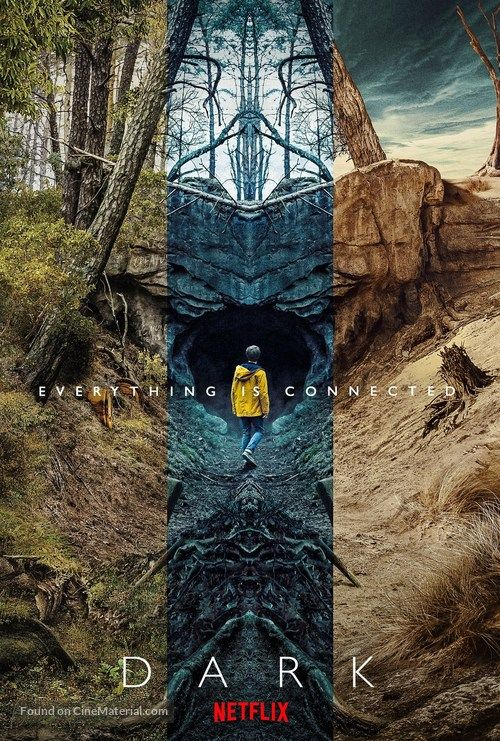
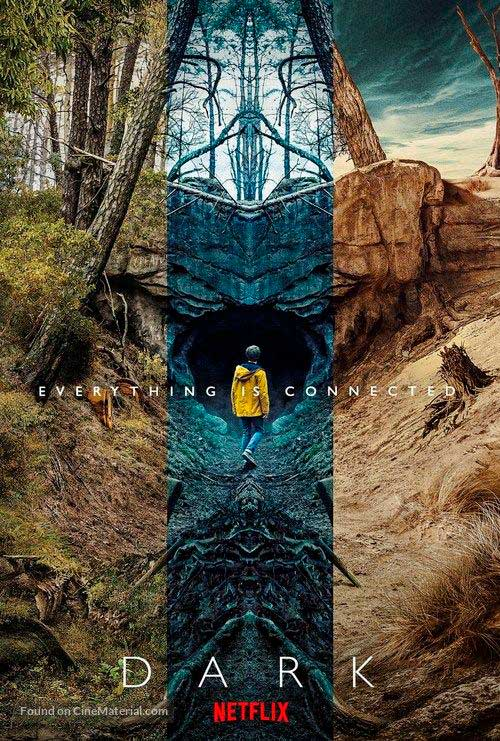
imagens otimizadas

diff --git a/filmes.html b/filmes.html
@@ -16,28 +16,84 @@
         <!-- CSS principal -->
         <link rel="stylesheet" href="css/style.css">
         <link rel="stylesheet" href="css/responsive.css">
+        <!-- Custom CSS -->
+        <style>
+              .single_review_item {
+            display: flex;
+            flex-direction: column;
+            height: 100%; 
+            border: 1px solid #f0f0f0;
+            border-radius: 5px;
+            overflow: hidden;
+        }
+
+        .img-fluid {
+            height: 400px; 
+            object-fit: cover; 
+            
+
+  }
+    
+        .review_content {
+            flex-grow: 1;
+            display: flex;
+            flex-direction: column;
+            
+        }
+    
+        .review_content h4 {
+            margin-top: 0;
+        }
+    
+        .review_content p {
+            flex-grow: 1;
+            margin-bottom: 15px;
+        }
+    
+        .review_content img {
+            width: 100%;
+            height: auto; 
+            object-fit: cover;
+            border-radius: 5px;
+            max-height: 500px;
+}
+    
+        .btn.theme_btn.button_hover {
+            align-self: center; 
+            margin-top: auto; 
+            padding: 10px 20px;
+            text-transform: uppercase;
+            font-size: 14px;
+        }
+    
+
+        .latest_reviews_area .single_review_item .review_content img {
+            width: 100%;
+            height: auto; /* ou uma altura fixa como 400px */
+            object-fit: cover;
+            border-radius: 5px;
+            max-height: 500px; /* ajuste conforme necessário */
+}
+        </style>
     </head>
     <body>
         <!--================Área de Cabeçalho =================-->
         <header class="header_area">
             <div class="container">
                 <nav class="navbar navbar-expand-lg navbar-light">
-                    <!-- Marca e botão de navegação -->
-                    <a class="navbar-brand logo_h" href="index.html"><img src="image/Logo.png" alt=""></a>
+                    <img src="./image/optimizedimages/logo.png" class="logo">
+                    <p class="cine">CineReview</p>
                     <button class="navbar-toggler" type="button" data-toggle="collapse" data-target="#navbarSupportedContent" aria-controls="navbarSupportedContent" aria-expanded="false" aria-label="Toggle navigation">
-                        <span class="icon-bar"></span>
-                        <span class="icon-bar"></span>
-                        <span class="icon-bar"></span>
+                        <span class="navbar-toggler-icon"></span>
                     </button>
-                    <!-- Coleta os links de navegação, formulários e outros conteúdos para alternar -->
                     <div class="collapse navbar-collapse offset" id="navbarSupportedContent">
                         <ul class="nav navbar-nav menu_nav ml-auto">
-                            <li class="nav-item"><a class="nav-link" href="index.html">Home</a></li>
-                            <li class="nav-item"><a class="nav-link" href="filmes.html">Filmes</a></li>
+                            <li class="nav-item "><a class="nav-link" href="index.html">Home</a></li>
+                            <li class="nav-item active"><a class="nav-link" href="filmes.html">Filmes</a></li>
                             <li class="nav-item"><a class="nav-link" href="series.html">Séries</a></li>
                             <li class="nav-item"><a class="nav-link" href="trailers.html">Trailers</a></li>
                         </ul>
-                    </div> 
+                    </div>
                 </nav>
             </div>
         </header>

diff --git a/index.html b/index.html
@@ -82,7 +82,7 @@
     <header class="header_area">
         <div class="container">
             <nav class="navbar navbar-expand-lg navbar-light">
-                <img src="./image/Home/logo.png" class="logo">
+                <img src="./image/optimizedimages/logo.png" class="logo">
                 <p class="cine">CineReview</p>
                 <button class="navbar-toggler" type="button" data-toggle="collapse" data-target="#navbarSupportedContent" aria-controls="navbarSupportedContent" aria-expanded="false" aria-label="Toggle navigation">
                     <span class="navbar-toggler-icon"></span>
@@ -144,7 +144,7 @@
                 <div class="col-lg-4 col-md-6 mb-4">
                     <div class="single_review_item text-center">
                         <div class="review_content">
-                            <img class="img-fluid" src="image/optimizedimages/melhorreviewwhiplash.png" alt="movie2">
+                            <img class="img-fluid" src="image/optimizedimages/melhorreviewwhiplash.jpg" alt="movie2">
                             <h4><a href="#">Whiplash</a></h4>
                             <div class="star">
                                 <i class="fa fa-star"></i>
@@ -191,7 +191,7 @@
                 <div class="col-lg-4 col-md-6">
                     <div class="single_review_item">
                         <div class="review_content">
-                            <img class="img-fluid" src="./image/optimizedimages/melhorreviewbrakingbad.jpeg" alt="series1">
+                            <img class="img-fluid" src="./image/optimizedimages/melhorreviewbrakingbad.jpg" alt="series1">
                             <h4><a href="#">Breaking Bad</a></h4>
                             <div class="star">
                                 <i class="fa fa-star"></i>
